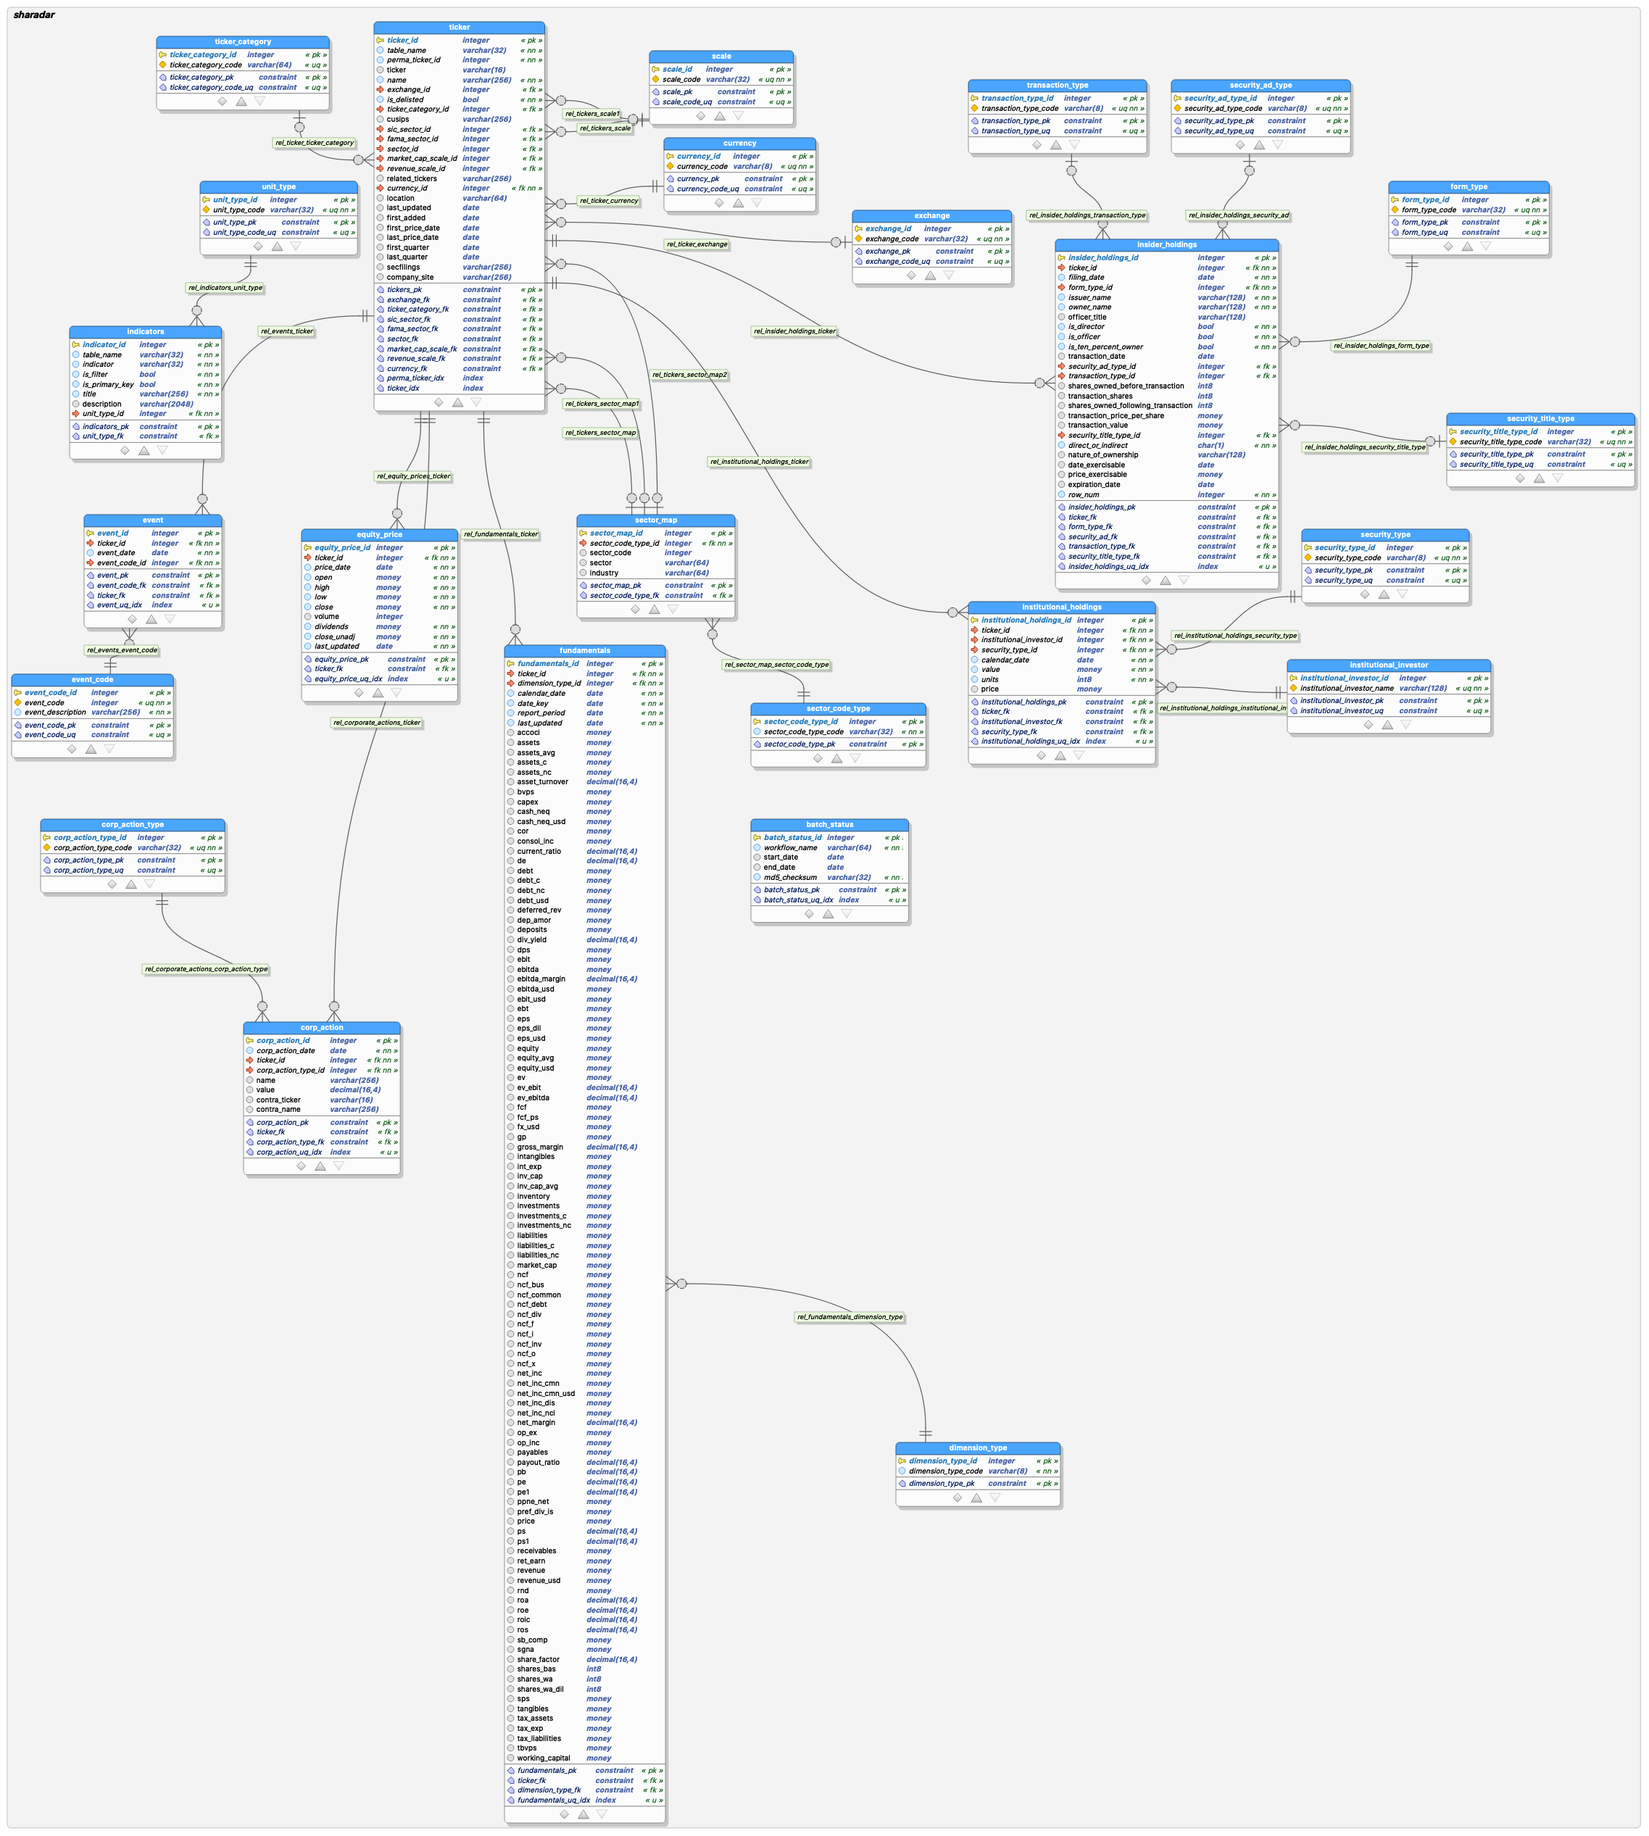
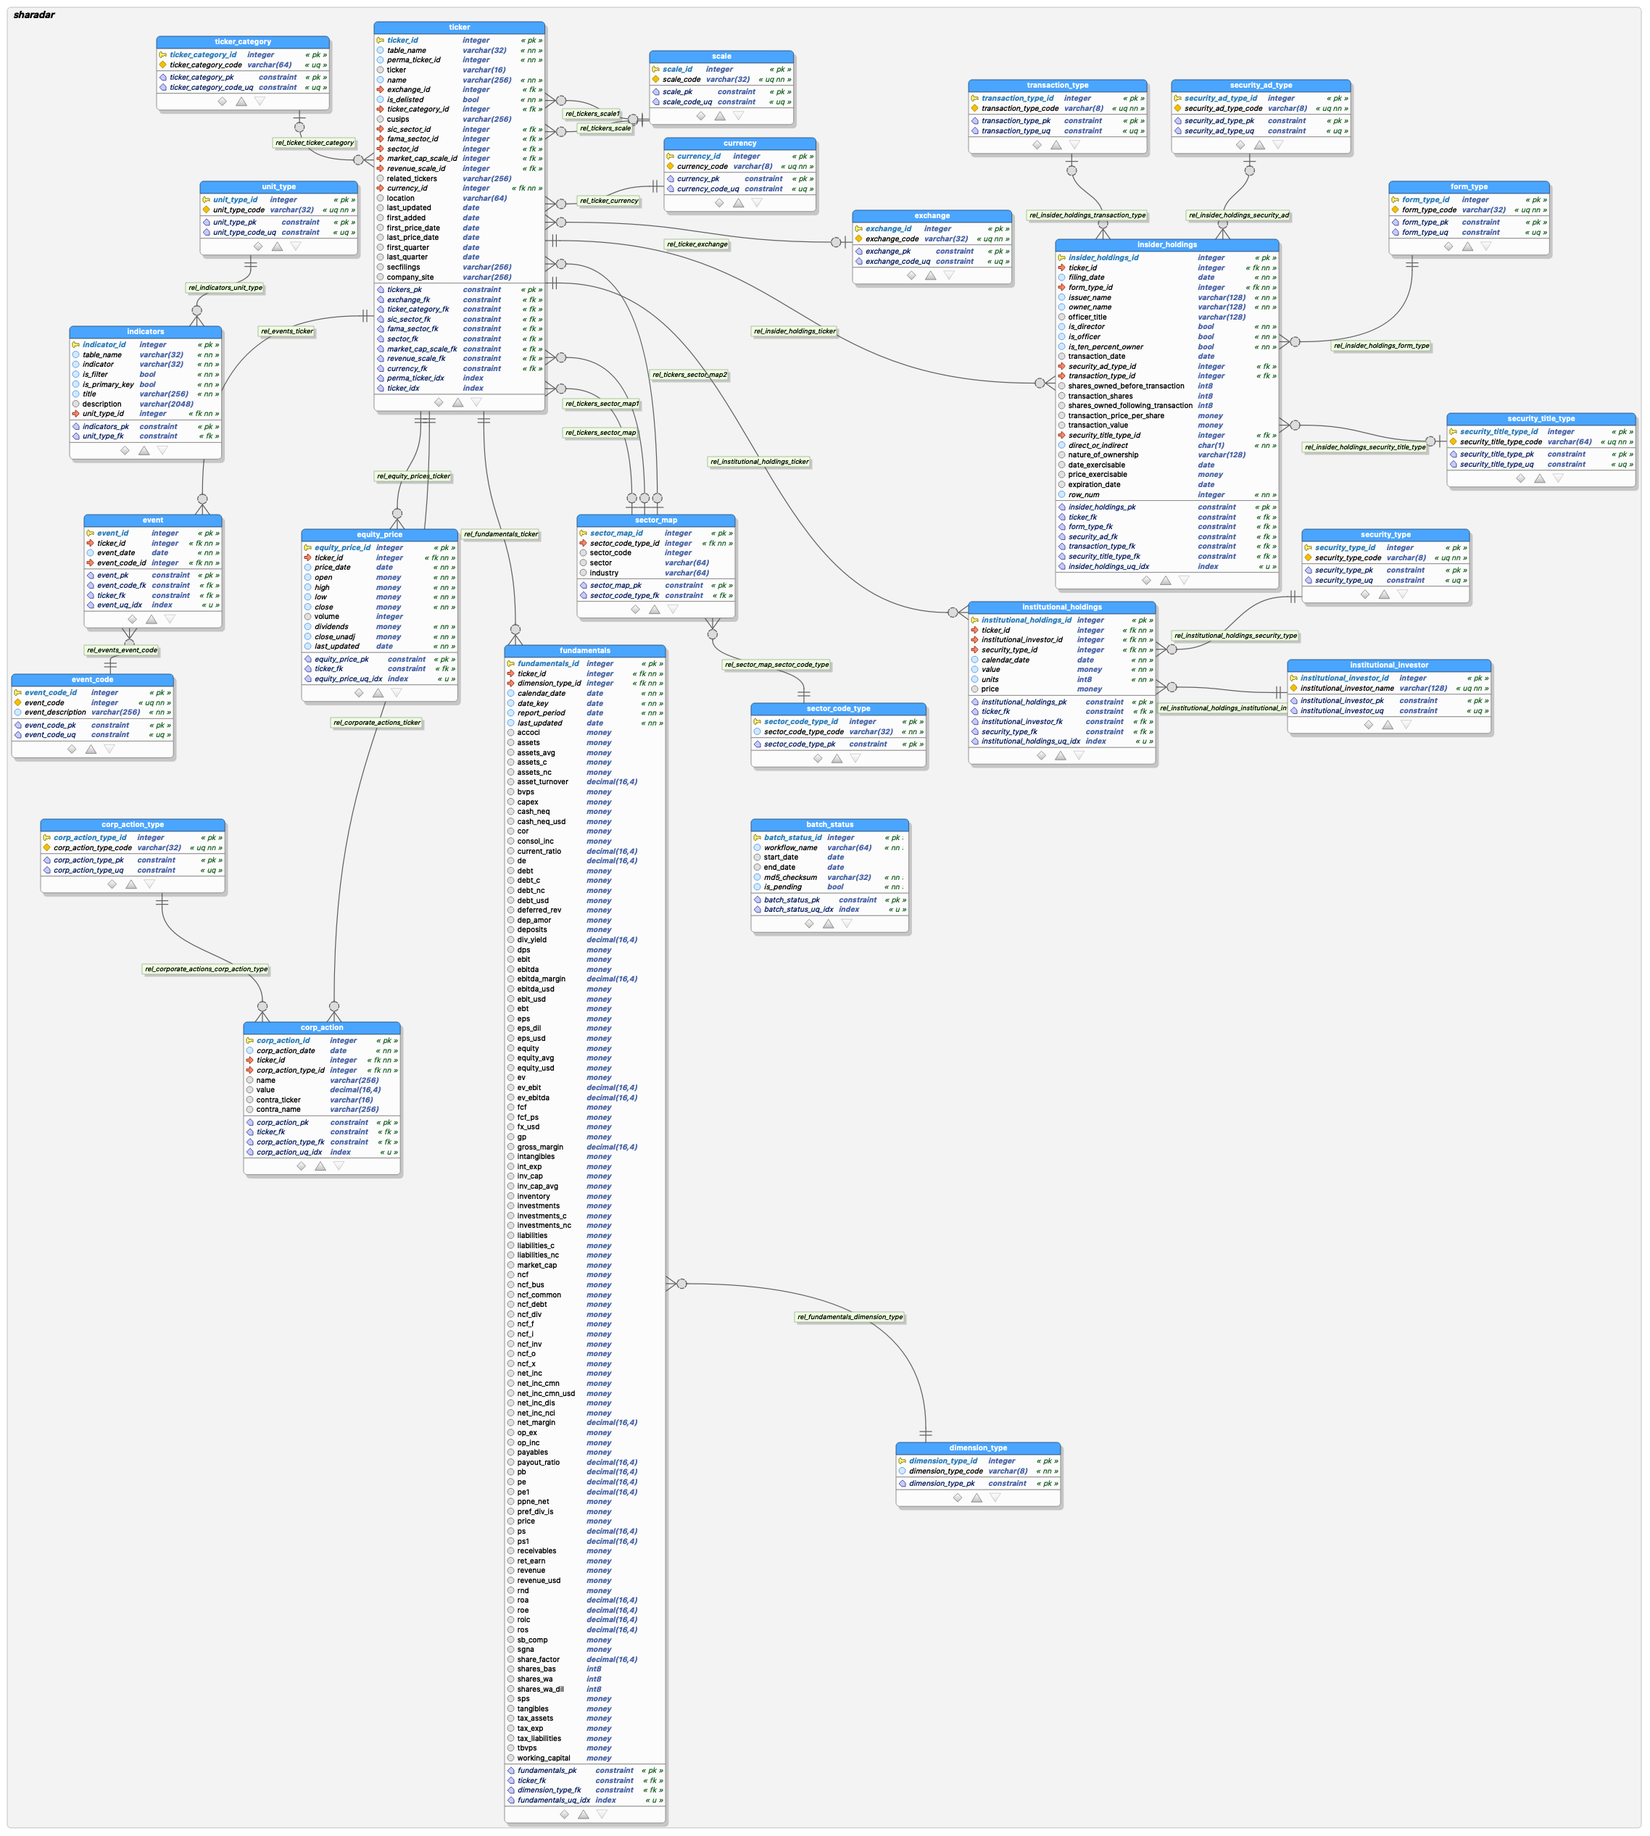
Prevent repeated loads based on MD5 checksums of ZIP content
AB#81

diff --git a/src/serenity/equity/batch/utils.py b/src/serenity/equity/batch/utils.py
@@ -1,13 +1,16 @@
+import datetime
 import hashlib
 import logging
 from abc import ABC, abstractmethod
 
+
 import luigi
 import pandas as pd
 import quandl
-from luigi.contrib.simulate import RunAnywayTarget
+from luigi import Target, LocalTarget
+from sqlalchemy.orm import Session
 
-from serenity.equity.sharadar_api import create_sharadar_session
+from serenity.equity.sharadar_api import create_sharadar_session, BatchStatus
 
 
 class QuandlApi(luigi.Config):
@@ -49,38 +52,81 @@ class ExportQuandlTableTask(luigi.Task):
             quandl.export_table(str(self.table_name), **kwargs)
 
 
+class BatchStatusTarget(Target):
+    def __init__(self, session: Session, workflow_name: str, start_date: datetime.date, end_date: datetime.date,
+                 local_file: LocalTarget):
+        self.session = session
+        self.workflow_name = workflow_name
+        self.start_date = start_date
+        self.end_date = end_date
+        self.local_file = local_file
+
+    def exists(self):
+        if not self.local_file.exists():
+            return False
+
+        md5_checksum = hashlib.md5(open(self.local_file.path, 'rb').read()).hexdigest()
+        batch_status = BatchStatus.find(self.session, self.workflow_name, self.start_date, self.end_date)
+        if batch_status is None:
+            batch_status = BatchStatus(workflow_name=self.workflow_name,
+                                       start_date=self.start_date,
+                                       end_date=self.end_date,
+                                       md5_checksum=md5_checksum,
+                                       is_pending=True)
+            self.session.add(batch_status)
+            exists = False
+        else:
+            exists = not batch_status.is_pending and batch_status.md5_checksum == md5_checksum
+        return exists
+
+    def done(self):
+        batch_status = BatchStatus.find(self.session, self.workflow_name, self.start_date, self.end_date)
+        if batch_status.is_pending:
+            batch_status.is_pending = False
+            self.session.add(batch_status)
+        self.session.commit()
+
+
 class LoadSharadarTableTask(ABC, luigi.Task):
     logger = logging.getLogger('luigi-interface')
     session = create_sharadar_session()
 
+    start_date = luigi.DateParameter(default=datetime.date.today())
+    end_date = luigi.DateParameter(default=datetime.date.today())
+
     def run(self):
         for table_in in self.input():
-            if isinstance(table_in, RunAnywayTarget):
-                continue
+            if isinstance(table_in, LocalTarget):
+                in_file = table_in.path
+                df = pd.read_csv(in_file)
+                self.logger.info(f'loaded {len(df)} rows of CSV data from {in_file}')
 
-            in_file = table_in.path
-            df = pd.read_csv(in_file)
-            self.logger.info(f'loaded {len(df)} rows of CSV data from {in_file}')
+                row_count = 0
+                for index, row in df.iterrows():
+                    self.process_row(index, row)
+                    if row_count > 0 and row_count % 1000 == 0:
+                        self.logger.info(f'{row_count} rows loaded; flushing next 1000 rows to database')
+                        self.session.commit()
+                    row_count += 1
 
-            md5 = hashlib.md5(open(in_file, 'rb').read()).hexdigest()
-            self.logger.info(f'computed MD5 checksum for {in_file}: {md5}')
+                self.session.commit()
 
-            row_count = 0
-            for index, row in df.iterrows():
-                self.process_row(index, row)
-                if row_count > 0 and row_count % 1000 == 0:
-                    self.logger.info(f'{row_count} rows loaded; flushing next 1000 rows to database')
-                    self.session.commit()
-                row_count += 1
-
-            self.session.commit()
-
-        # mark complete
         self.output().done()
 
     def output(self):
-        return RunAnywayTarget(self)
+        target = None
+        for table_in in self.input():
+            if isinstance(table_in, LocalTarget):
+                # noinspection PyTypeChecker
+                target = BatchStatusTarget(self.session, self.get_workflow_name(),
+                                           self.start_date, self.end_date, table_in)
+
+        return target
 
     @abstractmethod
     def process_row(self, index, row):
+        pass
+
+    @abstractmethod
+    def get_workflow_name(self):
         pass

diff --git a/src/serenity/equity/batch/load_sharadar_fundamentals.py b/src/serenity/equity/batch/load_sharadar_fundamentals.py
@@ -1,7 +1,3 @@
-import datetime
-
-import luigi
-
 from serenity.equity.batch.load_sharadar_tickers import LoadSharadarTickersTask
 from serenity.equity.batch.utils import LoadSharadarTableTask, ExportQuandlTableTask
 from serenity.equity.sharadar_api import clean_nulls
@@ -11,12 +7,9 @@ from serenity.equity.sharadar_refdata import Ticker
 
 # noinspection DuplicatedCode
 class LoadEquityFundamentalsTask(LoadSharadarTableTask):
-    start_date = luigi.DateParameter(default=datetime.date.today())
-    end_date = luigi.DateParameter(default=datetime.date.today())
-
     def requires(self):
         yield LoadSharadarTickersTask(start_date=self.start_date, end_date=self.end_date)
-        yield ExportQuandlTableTask(table_name='SHARADAR/SF1', date_column='lastupdated',
+        yield ExportQuandlTableTask(table_name=self.get_workflow_name(), date_column='lastupdated',
                                     start_date=self.start_date, end_date=self.end_date)
 
     def process_row(self, index, row):
@@ -279,3 +272,6 @@ class LoadEquityFundamentalsTask(LoadSharadarTableTask):
             fundamentals.working_capital = working_capital
 
         self.session.add(fundamentals)
+
+    def get_workflow_name(self):
+        return 'SHARADAR/SF1'

diff --git a/src/serenity/equity/batch/load_sharadar_insider_holdings.py b/src/serenity/equity/batch/load_sharadar_insider_holdings.py
@@ -1,7 +1,3 @@
-import datetime
-
-import luigi
-
 from serenity.equity.batch.load_sharadar_tickers import LoadSharadarTickersTask
 from serenity.equity.batch.utils import LoadSharadarTableTask, ExportQuandlTableTask
 from serenity.equity.sharadar_api import clean_nulls, yes_no_to_bool
@@ -12,12 +8,9 @@ from serenity.equity.sharadar_refdata import Ticker
 
 # noinspection DuplicatedCode
 class LoadInsiderHoldingsTask(LoadSharadarTableTask):
-    start_date = luigi.DateParameter(default=datetime.date.today())
-    end_date = luigi.DateParameter(default=datetime.date.today())
-
     def requires(self):
         yield LoadSharadarTickersTask(start_date=self.start_date, end_date=self.end_date)
-        yield ExportQuandlTableTask(table_name='SHARADAR/SF2', date_column='filingdate',
+        yield ExportQuandlTableTask(table_name=self.get_workflow_name(), date_column='filingdate',
                                     start_date=self.start_date, end_date=self.end_date)
 
     def process_row(self, index, row):
@@ -97,3 +90,6 @@ class LoadInsiderHoldingsTask(LoadSharadarTableTask):
             holdings.expiration_date = expiration_date
 
         self.session.add(holdings)
+
+    def get_workflow_name(self):
+        return 'SHARADAR/SF2'

diff --git a/src/serenity/equity/batch/load_sharadar_event_calendar.py b/src/serenity/equity/batch/load_sharadar_event_calendar.py
@@ -1,19 +1,12 @@
-import datetime
-
-import luigi
-
 from serenity.equity.batch.load_sharadar_tickers import LoadSharadarTickersTask
 from serenity.equity.batch.utils import LoadSharadarTableTask, ExportQuandlTableTask
 from serenity.equity.sharadar_refdata import Ticker, get_indicator_details, EventCode, Event
 
 
 class LoadEventCalendarTask(LoadSharadarTableTask):
-    start_date = luigi.DateParameter(default=datetime.date.today())
-    end_date = luigi.DateParameter(default=datetime.date.today())
-
     def requires(self):
         yield LoadSharadarTickersTask(start_date=self.start_date, end_date=self.end_date)
-        yield ExportQuandlTableTask(table_name='SHARADAR/EVENTS', date_column='date',
+        yield ExportQuandlTableTask(table_name=self.get_workflow_name(), date_column='date',
                                     start_date=self.start_date, end_date=self.end_date)
 
     def process_row(self, index, row):
@@ -32,3 +25,6 @@ class LoadEventCalendarTask(LoadSharadarTableTask):
             if event is None:
                 event = Event(ticker=ticker, event_date=event_date, event_code=event_code_entity)
                 self.session.add(event)
+
+    def get_workflow_name(self):
+        return 'SHARADAR/EVENTS'

diff --git a/src/serenity/equity/sharadar_api.py b/src/serenity/equity/sharadar_api.py
@@ -1,11 +1,12 @@
 import os
+from datetime import datetime
 
 import pandas as pd
 import quandl
 
 from money import Money
 
-from sqlalchemy import create_engine, TypeDecorator
+from sqlalchemy import create_engine, TypeDecorator, Column, Integer, String, Date, Boolean
 from sqlalchemy.dialects.postgresql import MONEY
 from sqlalchemy.ext.declarative import declarative_base
 from sqlalchemy.orm import sessionmaker, Session
@@ -61,3 +62,22 @@ class USD(TypeDecorator):
             return value
         else:
             return Money(value.replace(',', '').replace('$', ''), 'USD')
+
+
+class BatchStatus(Base):
+    __tablename__ = 'batch_status'
+
+    batch_status_id = Column(Integer, primary_key=True)
+    workflow_name = Column(String(64))
+    start_date = Column(Date)
+    end_date = Column(Date)
+    md5_checksum = Column(String(32))
+    is_pending = Column(Boolean)
+
+    @classmethod
+    def find(cls, session: Session, workflow_name: str, start_date: datetime.date, end_date: datetime.date):
+        return session.query(BatchStatus).filter(
+            BatchStatus.workflow_name == workflow_name,
+            BatchStatus.start_date == start_date,
+            BatchStatus.end_date == end_date
+        ).one_or_none()

diff --git a/src/serenity/equity/batch/load_sharadar_corp_actions.py b/src/serenity/equity/batch/load_sharadar_corp_actions.py
@@ -1,7 +1,3 @@
-import datetime
-
-import luigi
-
 from serenity.equity.batch.load_sharadar_tickers import LoadSharadarTickersTask
 from serenity.equity.batch.utils import LoadSharadarTableTask, ExportQuandlTableTask
 from serenity.equity.sharadar_api import clean_nulls
@@ -9,12 +5,9 @@ from serenity.equity.sharadar_refdata import Ticker, CorporateActionType, Corpor
 
 
 class LoadCorporateActionsTask(LoadSharadarTableTask):
-    start_date = luigi.DateParameter(default=datetime.date.today())
-    end_date = luigi.DateParameter(default=datetime.date.today())
-
     def requires(self):
         yield LoadSharadarTickersTask(start_date=self.start_date, end_date=self.end_date)
-        yield ExportQuandlTableTask(table_name='SHARADAR/ACTIONS', date_column='date',
+        yield ExportQuandlTableTask(table_name=self.get_workflow_name(), date_column='date',
                                     start_date=self.start_date, end_date=self.end_date)
 
     def process_row(self, index, row):
@@ -45,3 +38,6 @@ class LoadCorporateActionsTask(LoadSharadarTableTask):
             corp_action.contra_name = contra_name
 
         self.session.add(corp_action)
+
+    def get_workflow_name(self):
+        return 'SHARADAR/ACTIONS'

diff --git a/src/serenity/equity/batch/load_sharadar_institutional_holdings.py b/src/serenity/equity/batch/load_sharadar_institutional_holdings.py
@@ -1,7 +1,3 @@
-import datetime
-
-import luigi
-
 from serenity.equity.batch.load_sharadar_tickers import LoadSharadarTickersTask
 from serenity.equity.batch.utils import LoadSharadarTableTask, ExportQuandlTableTask
 from serenity.equity.sharadar_api import clean_nulls
@@ -10,12 +6,9 @@ from serenity.equity.sharadar_refdata import Ticker
 
 
 class LoadInstitutionalHoldingsTask(LoadSharadarTableTask):
-    start_date = luigi.DateParameter(default=datetime.date.today())
-    end_date = luigi.DateParameter(default=datetime.date.today())
-
     def requires(self):
         yield LoadSharadarTickersTask(start_date=self.start_date, end_date=self.end_date)
-        yield ExportQuandlTableTask(table_name='SHARADAR/SF3', date_column='calendardate',
+        yield ExportQuandlTableTask(table_name=self.get_workflow_name(), date_column='calendardate',
                                     start_date=self.start_date, end_date=self.end_date)
 
     def process_row(self, index, row):
@@ -46,3 +39,7 @@ class LoadInstitutionalHoldingsTask(LoadSharadarTableTask):
             holdings.price = price
 
         self.session.add(holdings)
+
+    def get_workflow_name(self):
+        return 'SHARADAR/SF3'
+

diff --git a/src/serenity/equity/batch/load_sharadar_tickers.py b/src/serenity/equity/batch/load_sharadar_tickers.py
@@ -9,11 +9,8 @@ from serenity.equity.sharadar_refdata import Exchange, TickerCategory, Sector, S
 
 # noinspection DuplicatedCode
 class LoadSharadarTickersTask(LoadSharadarTableTask):
-    start_date = luigi.DateParameter(default=datetime.date.today())
-    end_date = luigi.DateParameter(default=datetime.date.today())
-
     def requires(self):
-        yield ExportQuandlTableTask(table_name='SHARADAR/TICKERS', date_column='lastupdated',
+        yield ExportQuandlTableTask(table_name=self.get_workflow_name(), date_column='lastupdated',
                                     start_date=self.start_date, end_date=self.end_date)
 
     def process_row(self, index, row):
@@ -103,3 +100,6 @@ class LoadSharadarTickersTask(LoadSharadarTableTask):
                                    first_quarter=first_quarter, last_quarter=last_quarter, secfilings=sec_filings,
                                    company_site=company_site)
         self.session.add(ticker_entity)
+
+    def get_workflow_name(self):
+        return 'SHARADAR/TICKERS'

diff --git a/src/serenity/equity/batch/load_sharadar_meta.py b/src/serenity/equity/batch/load_sharadar_meta.py
@@ -5,7 +5,7 @@ from serenity.equity.sharadar_refdata import UnitType, Indicator
 
 class LoadSharadarMetaTask(LoadSharadarTableTask):
     def requires(self):
-        yield ExportQuandlTableTask(table_name='SHARADAR/INDICATORS')
+        yield ExportQuandlTableTask(table_name=self.get_workflow_name())
 
     def process_row(self, index, row):
         table_name, indicator, is_filter, is_primary_key, title, description, unit_type_code = row
@@ -24,3 +24,6 @@ class LoadSharadarMetaTask(LoadSharadarTableTask):
                                    description=description,
                                    unit_type=unit_type)
             self.session.add(ind_entity)
+
+    def get_workflow_name(self):
+        return 'SHARADAR/INDICATORS'

diff --git a/src/serenity/equity/batch/load_sharadar_prices.py b/src/serenity/equity/batch/load_sharadar_prices.py
@@ -15,7 +15,7 @@ class LoadEquityPricesTask(LoadSharadarTableTask):
 
     def requires(self):
         yield LoadSharadarTickersTask(start_date=self.start_date, end_date=self.end_date)
-        yield ExportQuandlTableTask(table_name='SHARADAR/SEP', date_column='lastupdated',
+        yield ExportQuandlTableTask(table_name=self.get_workflow_name(), date_column='lastupdated',
                                     start_date=self.start_date, end_date=self.end_date)
 
     def process_row(self, index, row):
@@ -51,3 +51,6 @@ class LoadEquityPricesTask(LoadSharadarTableTask):
             equity_price.last_updated = last_updated
 
         self.session.add(equity_price)
+
+    def get_workflow_name(self):
+        return 'SHARADAR/SEP'

diff --git a/src/serenity/equity/batch/main.py b/src/serenity/equity/batch/main.py
@@ -12,8 +12,8 @@ from serenity.equity.batch.load_sharadar_prices import LoadEquityPricesTask
 
 
 class SharadarDailyDownloadTask(luigi.WrapperTask):
-    start_date = luigi.DateParameter(default=datetime.date.today() - datetime.timedelta(days=7))
-    end_date = luigi.DateParameter(default=datetime.date.today())
+    start_date = luigi.DateParameter(default=datetime.date.today() - datetime.timedelta(days=0))
+    end_date = luigi.DateParameter(default=datetime.date.today() - datetime.timedelta(days=0))
 
     def requires(self):
         yield LoadSharadarMetaTask()
